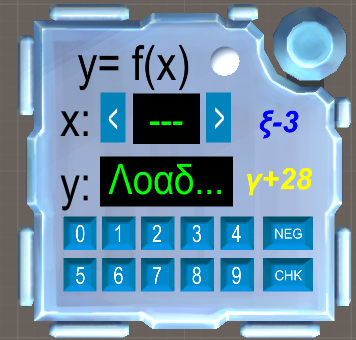
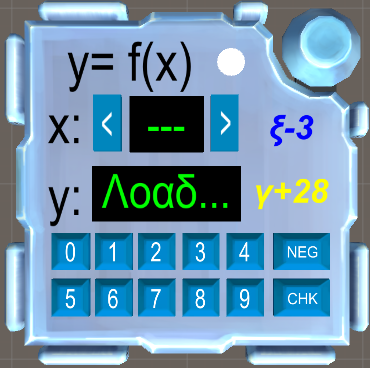
-Changed script to stop logging generation of data points, just list them once. -CHANGED MODULE ID: New module ID is greekCalculus. This was changed to be compatible with the Logfile Analyzer. -Fixed bug where the LED cannot be seen when the lights are off.

diff --git a/Assets/calcScript.cs b/Assets/calcScript.cs
@@ -182,7 +182,7 @@ public class calcScript : MonoBehaviour {
         for (int i = X_LOW_VALUE_RANGE_MIN; i <= X_LOW_VALUE_RANGE_MAX; i++) lowVals.Add(i);
 
         int lowDataPointCnt = Random.Range(X_LOW_COUNT_RANGE_MIN, X_LOW_COUNT_RANGE_MAX + 1);
-        Debug.LogFormat("[Greek Calculus #{0}] Module will have {1} low data points.", _moduleId, lowDataPointCnt);
+        //Debug.LogFormat("[Greek Calculus #{0}] Module will have {1} low data points.", _moduleId, lowDataPointCnt);
         for(int i = 0; i < lowDataPointCnt; i++)
         {
             int rand = Random.Range(0, lowVals.Count);
@@ -190,12 +190,12 @@ public class calcScript : MonoBehaviour {
             int newY = Random.Range(Y_VALUE_RANGE_MIN, Y_VALUE_RANGE_MAX + 1);
             tempVals.Add(newX, newY);
             lowVals.RemoveAt(rand);
-            Debug.LogFormat("[Greek Calculus #{0}] Low data point generated: ({1}, {2}).", _moduleId, newX, newY);
+            //Debug.LogFormat("[Greek Calculus #{0}] Low data point generated: ({1}, {2}).", _moduleId, newX, newY);
         }
 
         //randomize high-X data points
         int highDataPointCnt = Random.Range(X_HIGH_COUNT_RANGE_MIN, X_HIGH_COUNT_RANGE_MAX + 1);
-        Debug.LogFormat("[Greek Calculus #{0}] Module will have {1} high data points.", _moduleId, highDataPointCnt);
+        //Debug.LogFormat("[Greek Calculus #{0}] Module will have {1} high data points.", _moduleId, highDataPointCnt);
         for (int i = 0; i < highDataPointCnt; i++)
         {
             while (true)
@@ -207,7 +207,7 @@ public class calcScript : MonoBehaviour {
                     int newX = rand;
                     int newY = Random.Range(Y_VALUE_RANGE_MIN, Y_VALUE_RANGE_MAX + 1);
                     tempVals.Add(newX, newY);
-                    Debug.LogFormat("[Greek Calculus #{0}] High data point generated: ({1}, {2}).", _moduleId, newX, newY);
+                    //Debug.LogFormat("[Greek Calculus #{0}] High data point generated: ({1}, {2}).", _moduleId, newX, newY);
                     break;
                 }
             }

diff --git a/README.md b/README.md
@@ -2,5 +2,5 @@ Greek Calculus - Regular Module
 Keep Talking and Nobody Explodes Mod
 by billy-bao
 
-Module ID: greekCalc
+Module ID: greekCalculus
 Module Manual: https://ktane.timwi.de/HTML/Greek%20Calculus.html
